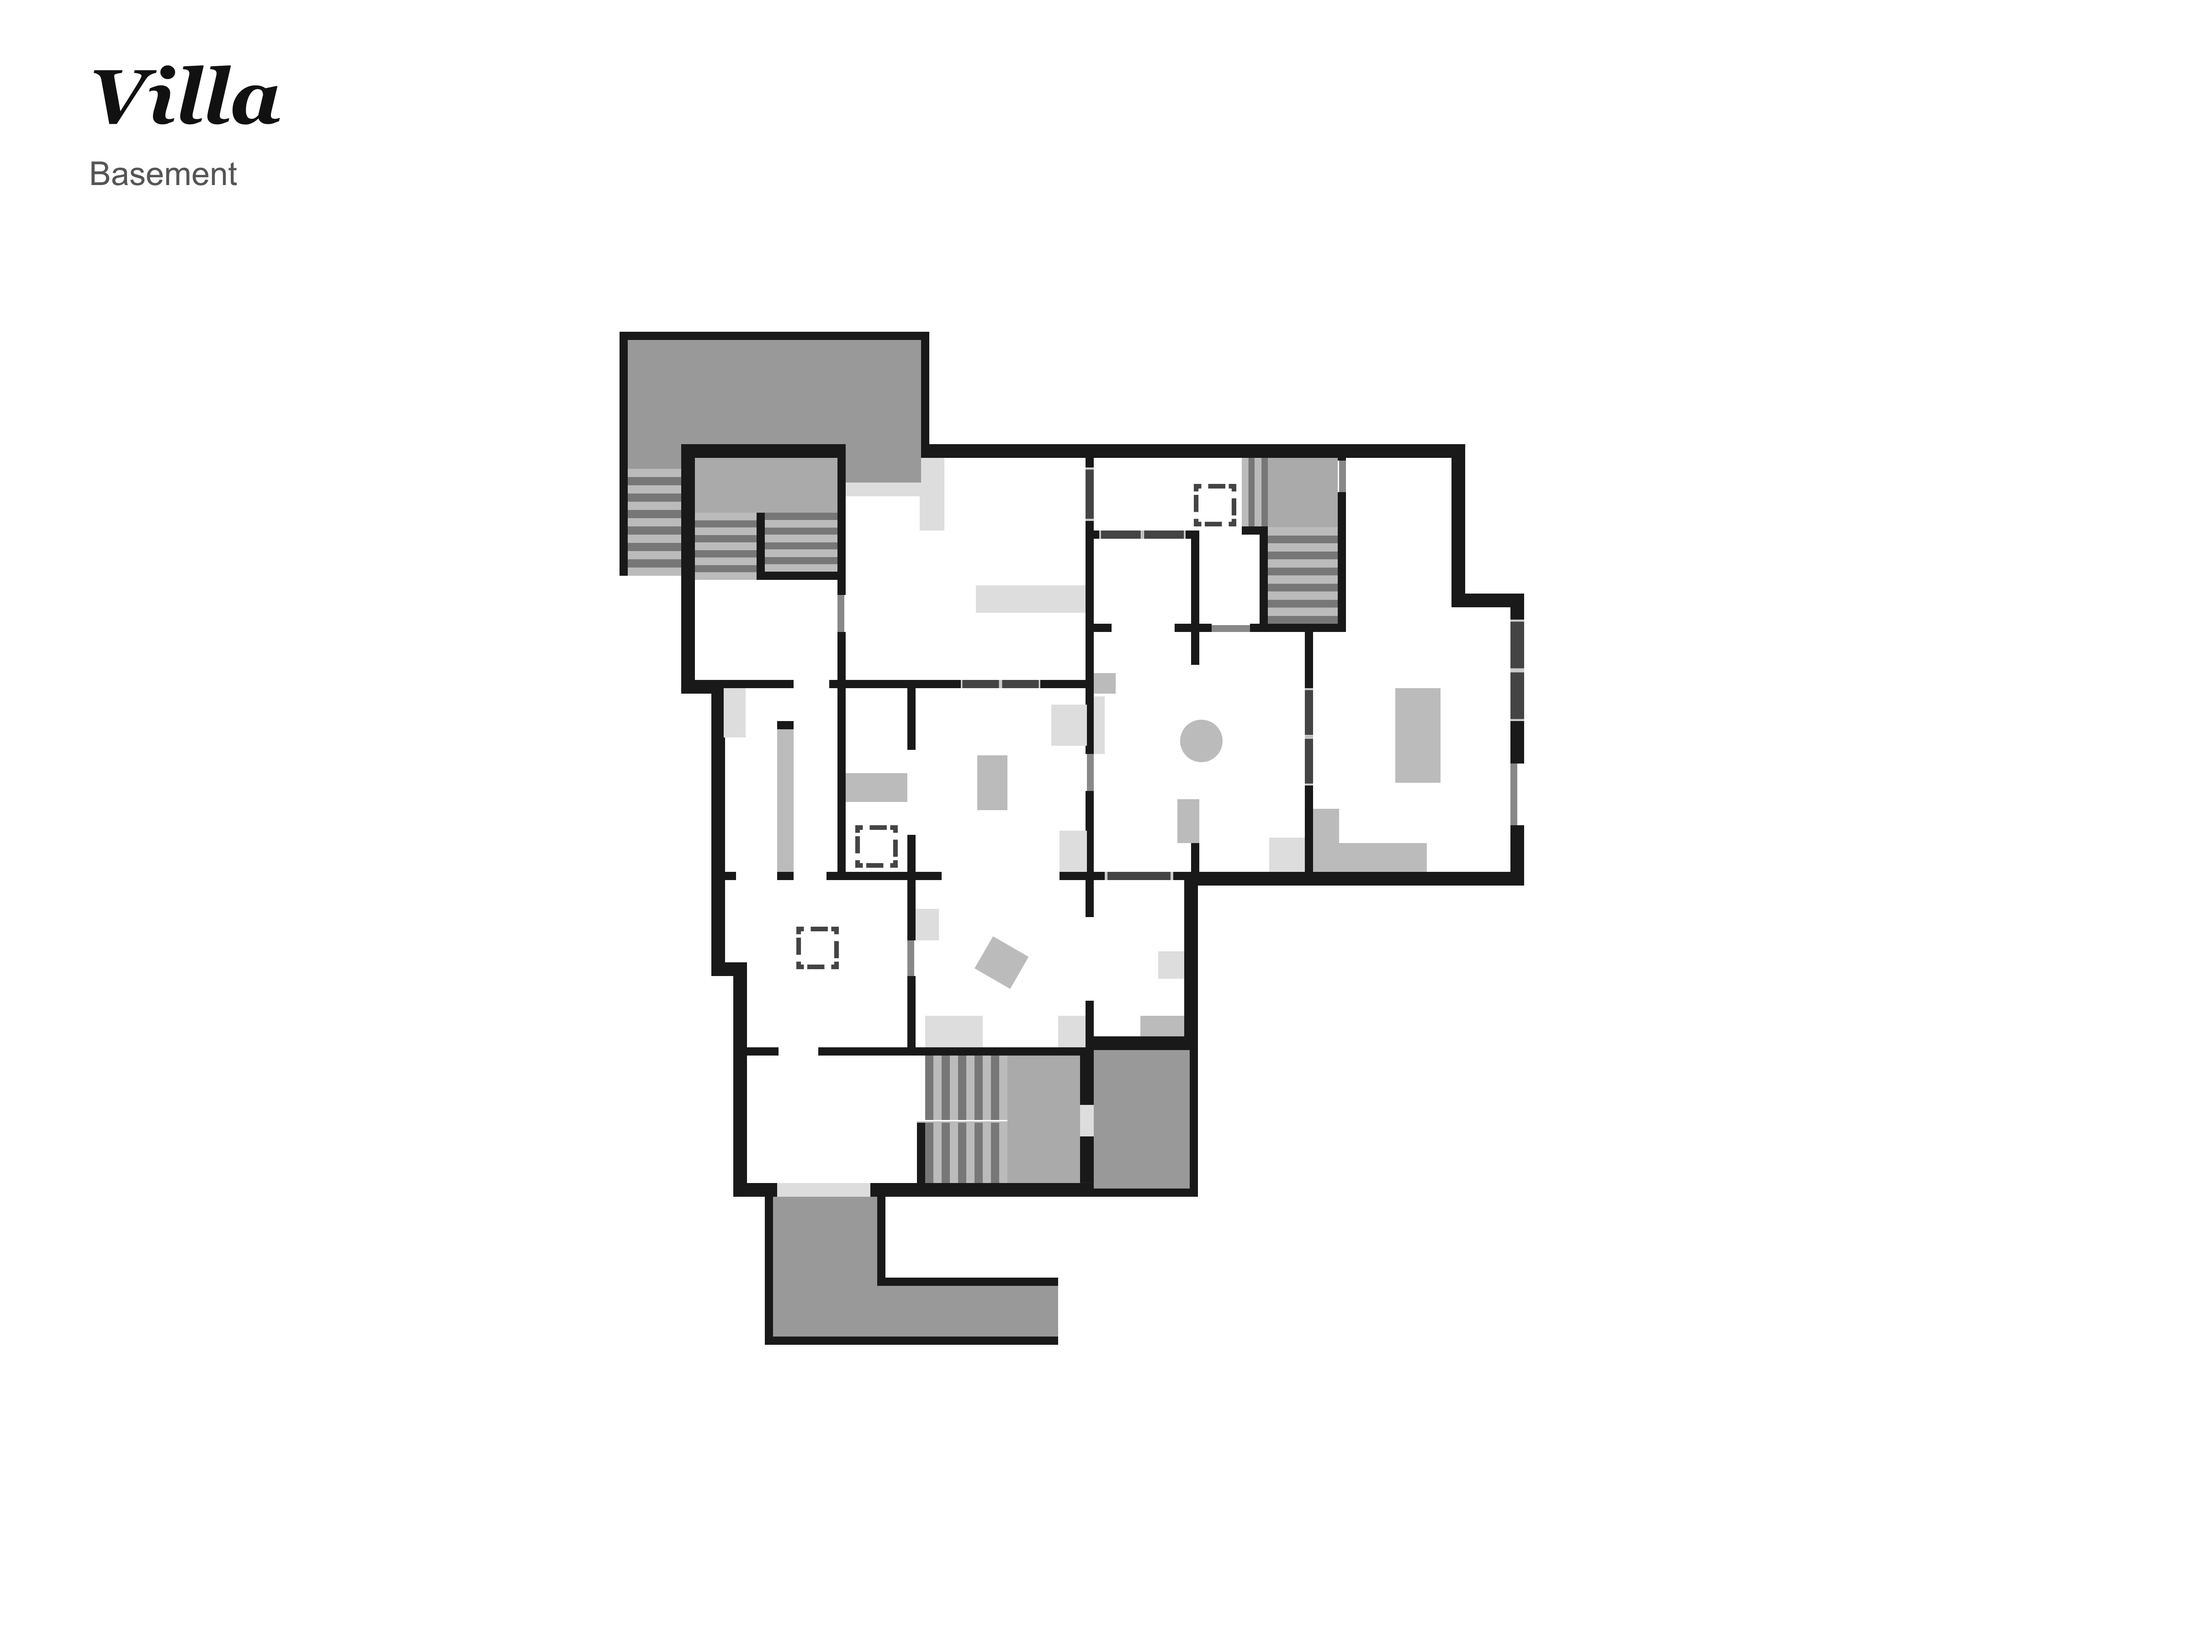
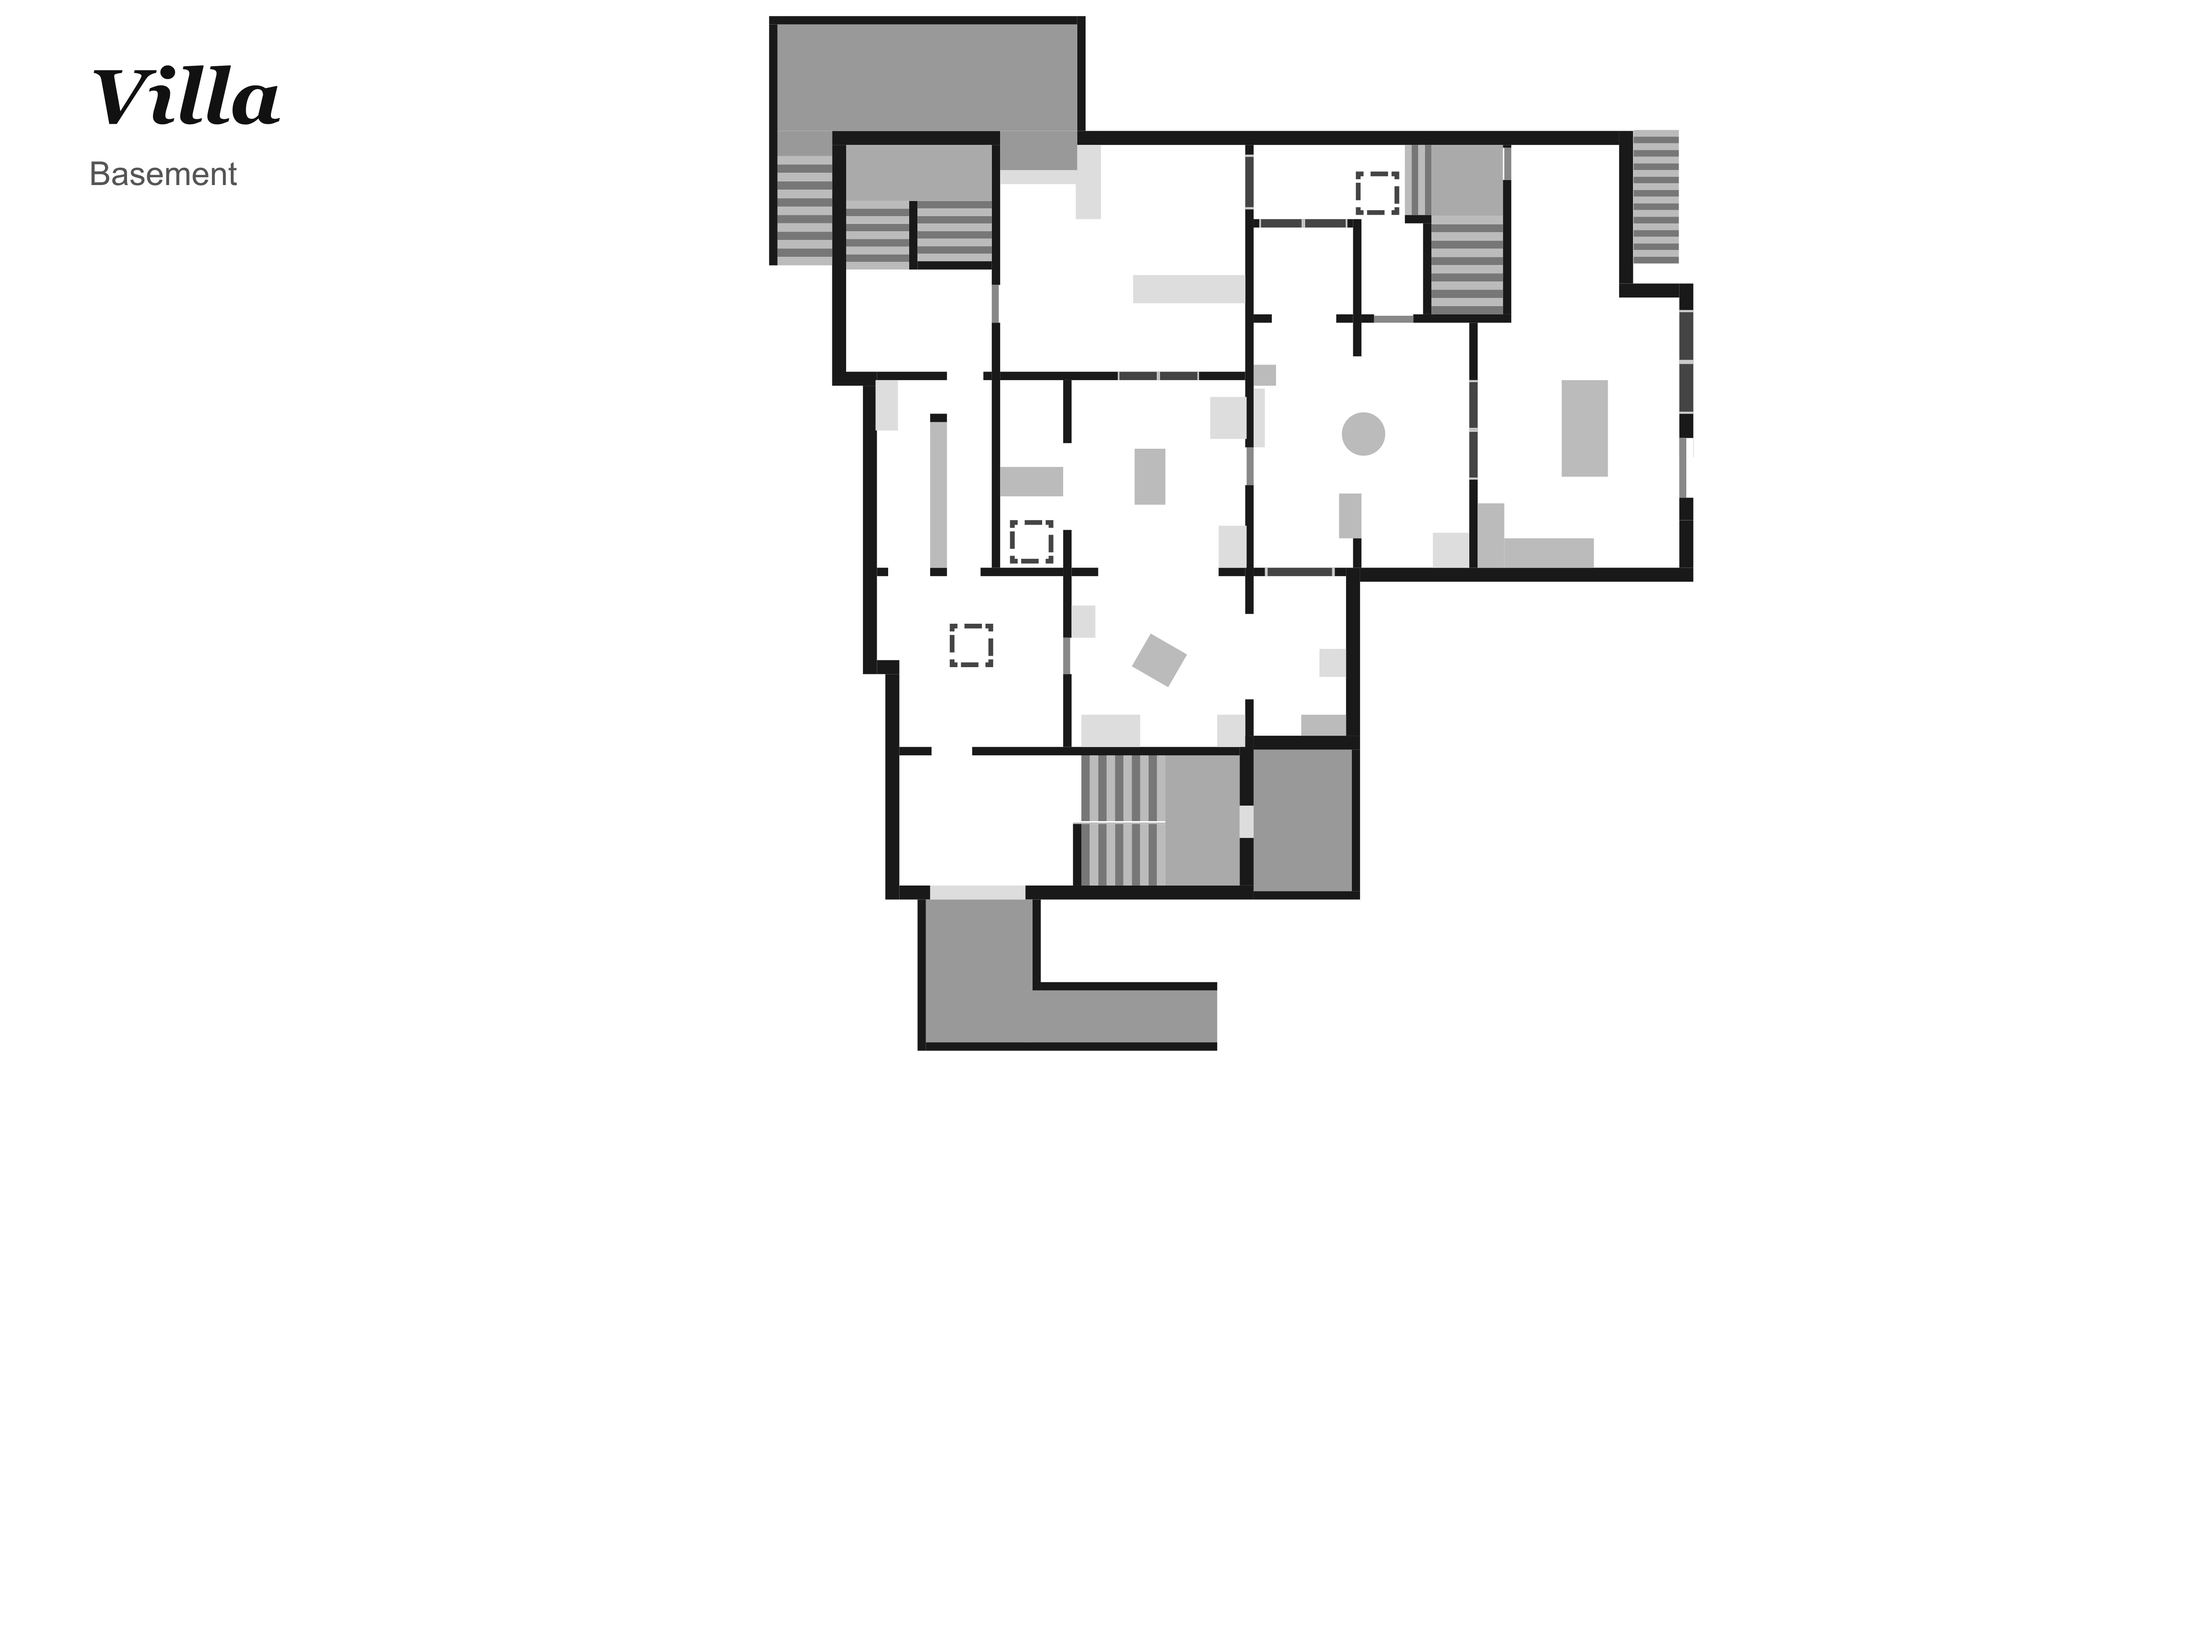
Align Villa floors and correct the basement garage opening and NE stair
The Stratbook basement and the Sternab upper floors were drawn at different
scales and positions. Replay fits put the stair transitions on the drawn
stairs of every pair of floors, so the basement SVG is now wrapped into the
ground floor's frame and the top floor is resampled into it; stairs and the
north walls coincide across floors. Attackers cross the basement garage's
east wall about 0.9 m north of the drawn opening (both halves of the rounds
agree), so the opening moves north, and the exterior stair players climb
from basement level to the ground at the north-east corner is added.
Callouts move with the drawing.

Changed region(s): [[0.2812, 0.0, 0.7812, 0.84], [0.6875, 0.4978, 0.7188, 0.5289]]

diff --git a/docs/content.md b/docs/content.md
@@ -59,6 +59,7 @@ Villaの構造変更は地下のみのため、2階・1階はSternab氏の`Villa
 | アジト | 3階層とも東西方向が1.19倍に引き伸ばされていた（縦横の縮尺64.7×54.6 px/m） | 3階層のSVGの図形を東西方向に0.843倍し、54.57 px/mの同一縮尺で中央に配置。見出しと枠は固定 |
 | Border | 1階が2階の1.11倍（82.2対74 px/m）の縮尺で別の位置 | 1階を2階の縮尺・位置へ再標本化。2階は原図のまま |
 | Bank | 地下が1階より南へ約11 m（716 px）ずれた位置。2階も約1.5 mずれていた | 3階層を各階層の照合結果から共通の位置と縮尺（55 px/m、原図の0.87倍）へ再標本化。地下の駐車場まで枠内に収めるため縮小 |
+| Villa | 地下（Stratbook）と1階・2階（Sternab）で縮尺と位置が異なる。地下ガレージ東側の開口部が約0.9 m南にずれ、北東の屋外階段がない | 1階を基準に、地下SVGを変換し2階を再標本化。地下の開口部を北へ移し、北東の屋外階段を追加 |
 
 Sternab氏の画像を補正した階層は、原図を軸ごとの拡大縮小と平行移動だけで再標本化（バイキュービック）し、外枠と見出しは原図の位置のまま残しています。`sourceFile`は元の原図名のままで、`assets/map-sources/`のJPEGが補正版です（sharpで品質98、4:4:4）。出典はSternab氏のままです。補正していない階層は原図と同一のファイルです。
 
